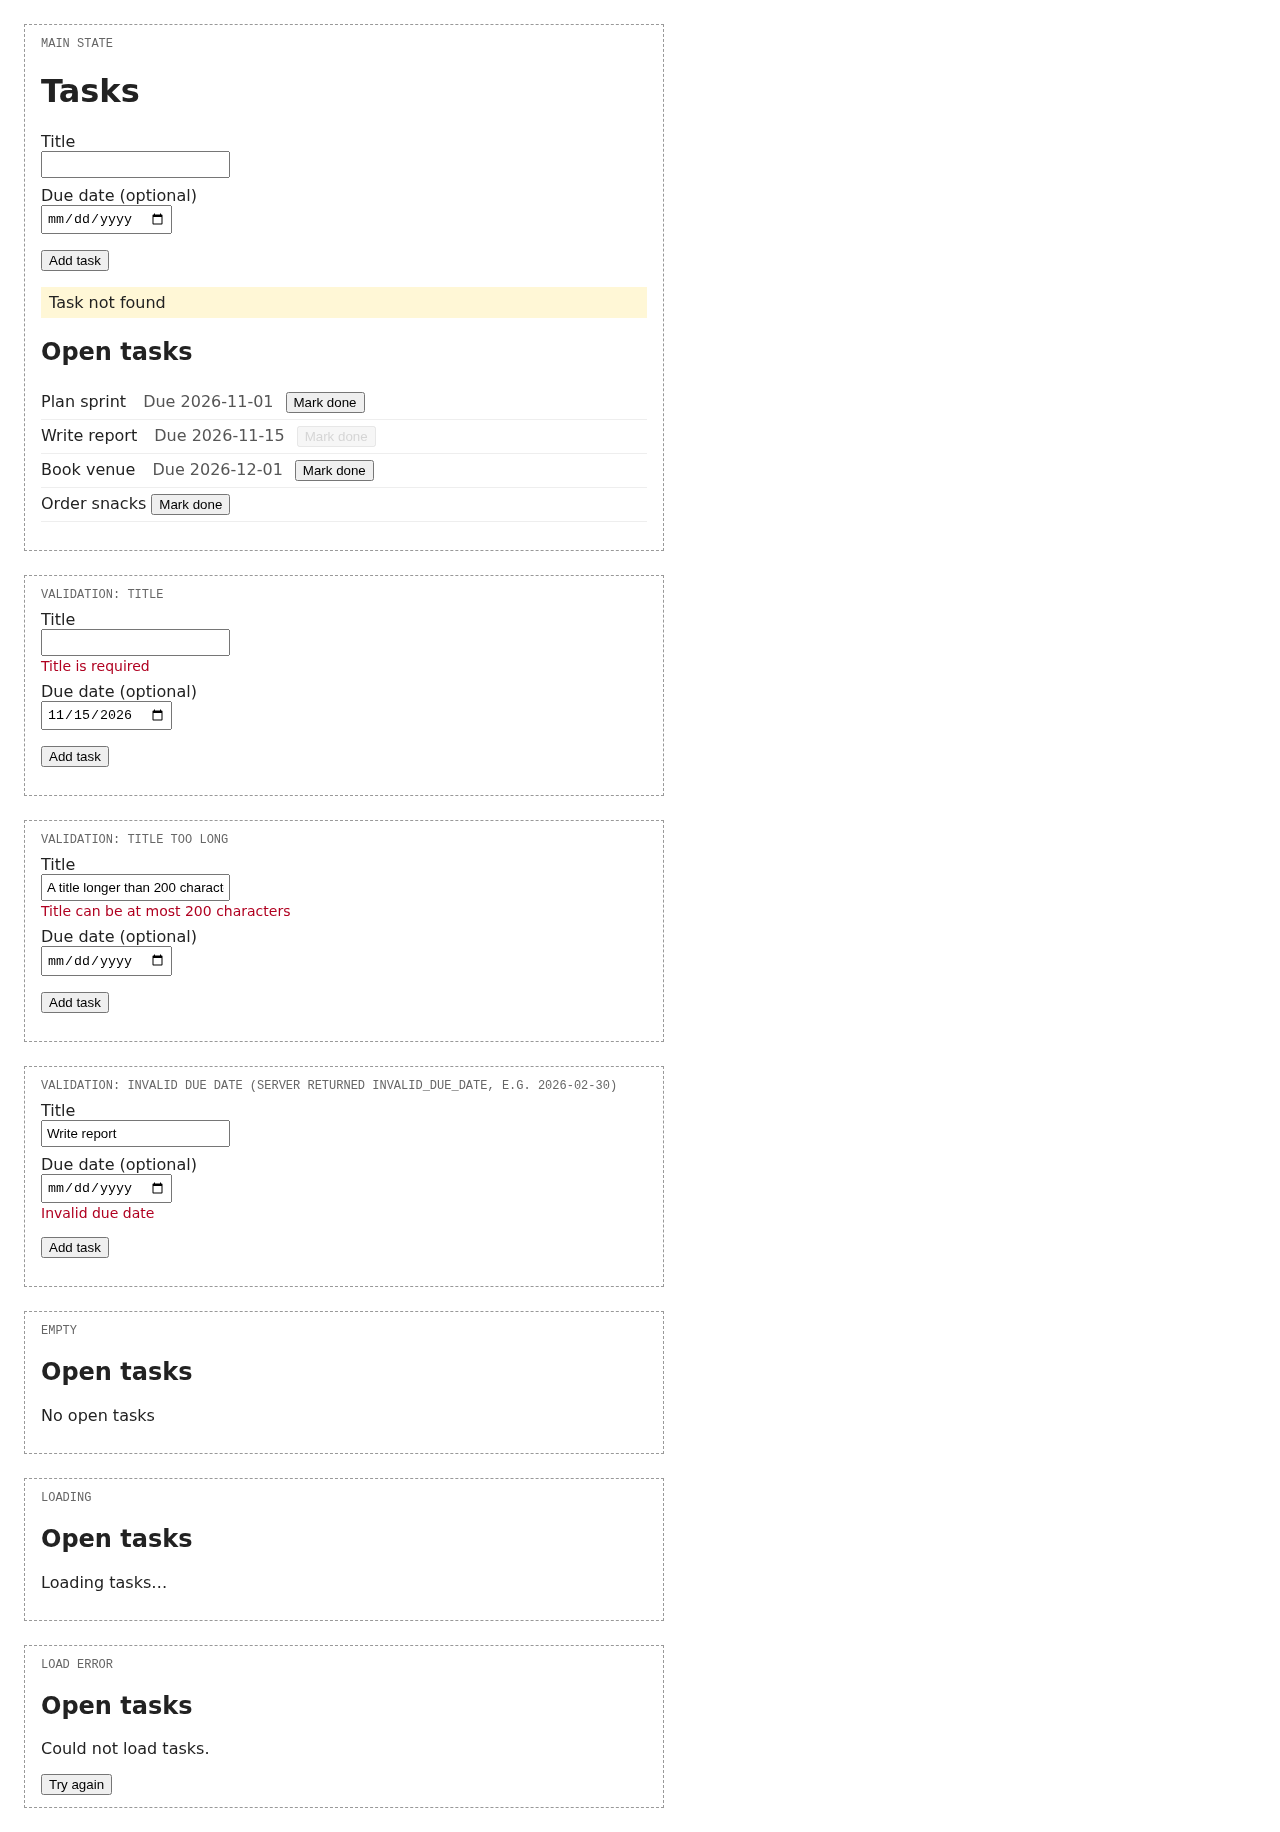
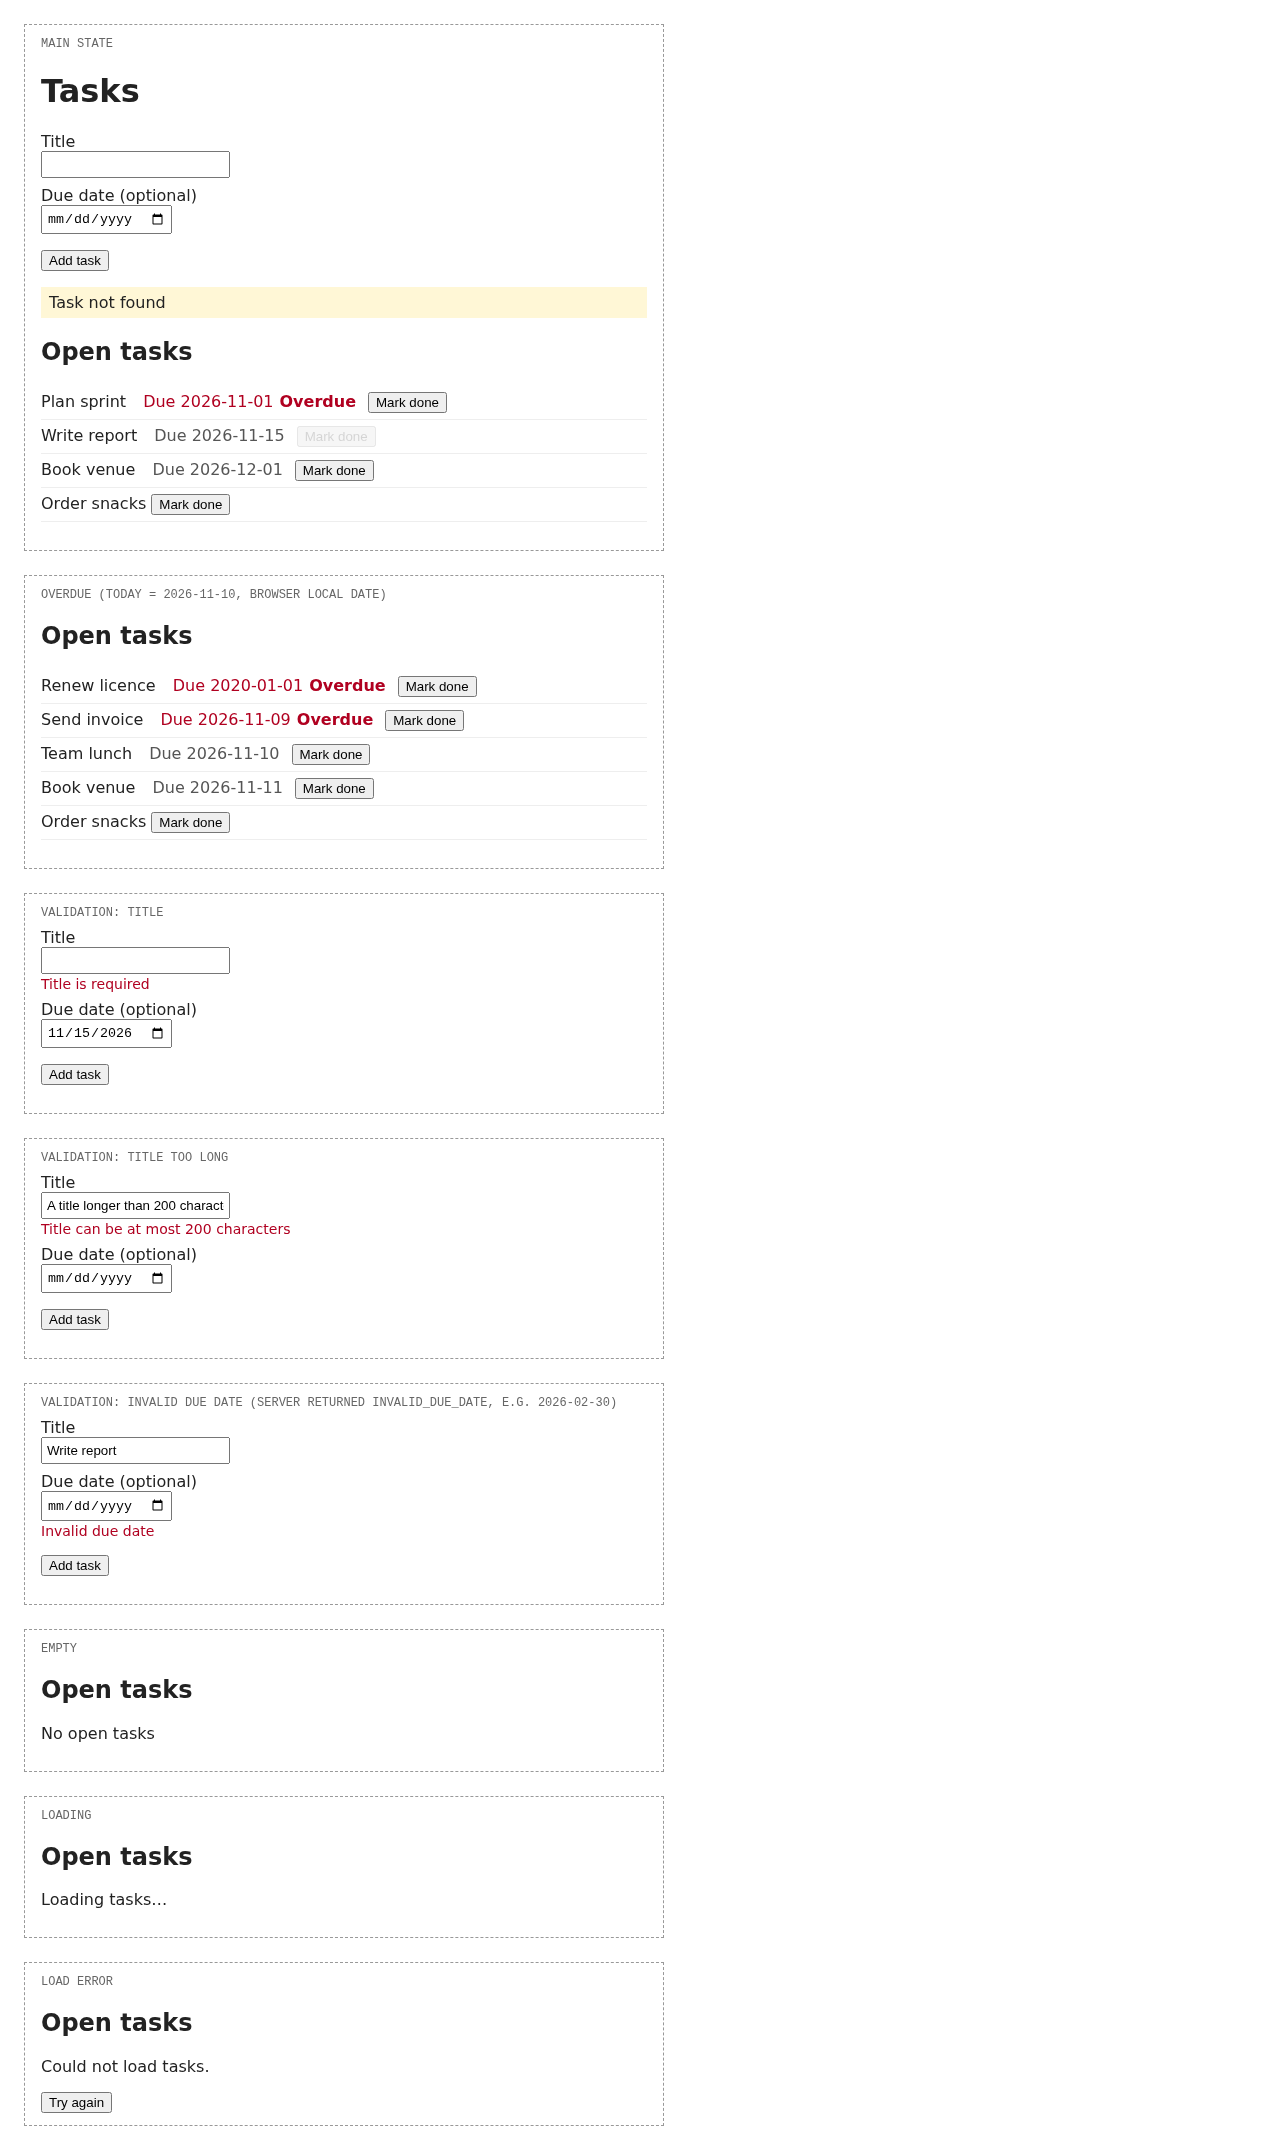
docs: add overdue highlight to Tasks screen design
Autopilot-Task: AWS-23

Changed region(s): [[0.0312, 0.0, 0.5312, 0.9956], [0.25, 0.6223, 0.2812, 0.6534]]

diff --git a/docs/design/tasks-screen/mockup.html b/docs/design/tasks-screen/mockup.html
@@ -7,7 +7,8 @@ section.state{border:1px dashed #999;padding:12px 16px;margin:24px 0}
 label{display:block;margin-top:8px}input{padding:4px}
 .err{color:#b00020;font-size:14px;margin:2px 0}
 ul{padding-left:0;list-style:none}li{padding:6px 0;border-bottom:1px solid #eee}
-li time{color:#555;margin:0 12px}button[disabled]{opacity:.5}
+li time{color:#555;margin:0 12px}li time.overdue{color:#b00020;margin-right:6px}
+.tag{color:#b00020;font-weight:600;margin-right:12px}button[disabled]{opacity:.5}
 .notice{background:#fff7d6;padding:6px 8px}
 </style></head><body>
 <section class="state"><div class="label">Main state</div>
@@ -19,11 +20,20 @@ li time{color:#555;margin:0 12px}button[disabled]{opacity:.5}
 <p class="notice" role="status">Task not found</p>
 <h2>Open tasks</h2>
 <ul aria-label="Open tasks">
-<li>Plan sprint <time datetime="2026-11-01">Due 2026-11-01</time><button aria-label="Mark done: Plan sprint">Mark done</button></li>
+<li>Plan sprint <time class="overdue" datetime="2026-11-01">Due 2026-11-01</time><span class="tag">Overdue</span><button aria-label="Mark done: Plan sprint">Mark done</button></li>
 <li>Write report <time datetime="2026-11-15">Due 2026-11-15</time><button aria-label="Mark done: Write report" disabled>Mark done</button></li>
 <li>Book venue <time datetime="2026-12-01">Due 2026-12-01</time><button aria-label="Mark done: Book venue">Mark done</button></li>
 <li>Order snacks <button aria-label="Mark done: Order snacks">Mark done</button></li>
 </ul></main></section>
+<section class="state"><div class="label">Overdue (today = 2026-11-10, browser local date)</div>
+<h2>Open tasks</h2>
+<ul aria-label="Open tasks">
+<li>Renew licence <time class="overdue" datetime="2020-01-01">Due 2020-01-01</time><span class="tag">Overdue</span><button aria-label="Mark done: Renew licence">Mark done</button></li>
+<li>Send invoice <time class="overdue" datetime="2026-11-09">Due 2026-11-09</time><span class="tag">Overdue</span><button aria-label="Mark done: Send invoice">Mark done</button></li>
+<li>Team lunch <time datetime="2026-11-10">Due 2026-11-10</time><button aria-label="Mark done: Team lunch">Mark done</button></li>
+<li>Book venue <time datetime="2026-11-11">Due 2026-11-11</time><button aria-label="Mark done: Book venue">Mark done</button></li>
+<li>Order snacks <button aria-label="Mark done: Order snacks">Mark done</button></li>
+</ul></section>
 <section class="state"><div class="label">Validation: title</div>
 <form aria-label="Add task">
 <label>Title<br><input type="text" aria-invalid="true" value=""></label>

diff --git a/docs/design/tasks-screen/screen.md b/docs/design/tasks-screen/screen.md
@@ -10,6 +10,12 @@ The single screen where a team member adds a task, sees the open tasks in server
 - Due dates are shown as raw `YYYY-MM-DD` with a "Due" prefix, in `<time dateTime>`; no time-zone shifting.
 - Field error text is `errors[].message` verbatim. The client writes only the generic copy and "Task not found".
 - Known defect (fixed): an earlier mockup wrongly showed 2026-11-15 with "Invalid due date". A valid date is never flagged.
+- Overdue (answers Q-6): only the due-date `<time>` turns red, not the whole row; title and "Mark done" keep their normal colours. Colour is `#b00020` (the field-error red, about 7.4:1 on the `#fff` background, WCAG AA/AAA). Non-colour cue: right after the `<time>` a visible text label `<span class="tag">Overdue</span>` in the same red, font-weight 600, read by screen readers as text.
+- Overdue rule: status open AND dueDate not null AND dueDate < today, compared as `YYYY-MM-DD` strings (calendar dates, not timestamps) (R-15, R-16).
+  - "Today" is the browser's local calendar date, built from getFullYear/getMonth/getDate of `new Date()`; never `toISOString()` (UTC) and never the server's date (AC-23).
+  - It is worked out in the browser each time the list renders. The API returns no overdue flag; no API change.
+  - The server order is unchanged: no re-sorting or grouping (AC-20).
+  - A task due today, due later, or without a due date is never red (AC-21, AC-22).
 - The list is a `<ul>`, not a table. Style stays minimal like the scaffold (single `<main>`).
 
 ## Layout (top to bottom)
@@ -18,20 +24,20 @@ The single screen where a team member adds a task, sees the open tasks in server
 3. Notice area ("Task not found" / form and row failures).
 4. `<h2>Open tasks</h2>` and the state: loading, load error, empty or list.
 
-Mockup sections: Main state (no errors), Validation: title, Validation: title too long, Validation: invalid due date, Empty, Loading, Load error.
+Mockup sections: Main state (no errors), Overdue, Validation: title, Validation: title too long, Validation: invalid due date, Empty, Loading, Load error.
 
 ## Components
 - **TasksScreen**: loads GET /api/tasks, owns list and notice state.
 - **AddTaskForm**: labelled "Title" text input (no maxlength, no client validation), labelled "Due date (optional)" `<input type="date">`, submit "Add task". Each field has its own error element directly below it, linked by `aria-describedby`, input gets `aria-invalid="true"`. Both field errors can show together. Submit is disabled while in flight.
 - **OpenTaskList**: `<ul aria-label="Open tasks">` in exact server order, no client sorting.
-- **Row**: title as a plain text node, then "Due 2026-11-15" or nothing when dueDate is null, then a button with visible text "Mark done" and `aria-label="Mark done: <title>"`. Disabled while its request is in flight.
+- **Row**: title as a plain text node, then "Due 2026-11-15" or nothing when dueDate is null, followed by a red "Overdue" label when the task is overdue (date also red), then a button with visible text "Mark done" and `aria-label="Mark done: <title>"`. Disabled while its request is in flight.
 - **Notice**: `role="status"` for "Task not found"; cleared on the next successful action or on dismiss.
 
 ## States
 - **Loading**: `role="status"` "Loading tasks…", no list. The form stays usable.
 - **Load error**: `role="alert"` "Could not load tasks." plus "Try again" button that re-fetches. The form stays usable.
 - **Empty**: `<p>No open tasks</p>`, no `<ul>`, no table.
-- **Success**: the list.
+- **Success**: the list; overdue rows are highlighted (red due date plus "Overdue").
 - **Validation (400 validation_failed)**: "Title is required" (title_required), "Title can be at most 200 characters" (title_too_long) under Title; "Invalid due date" (invalid_due_date) under the date. Entered values are kept, nothing is added.
   - The client never validates the date. It sends the date input's `value` unchanged (YYYY-MM-DD), or omits dueDate when empty, so a real date such as 2026-11-15 is accepted and listed as "Due 2026-11-15" (AC-2).
   - "Invalid due date" appears only when the 400 response has a FieldError with field `dueDate`. Each error goes under the input matching its `field`, never chosen by guessing from the code.
@@ -49,10 +55,12 @@ See `fields.yaml`.
 3. Invalid: messages appear below the fields, values stay. Valid: inputs clear, list re-fetches and the task is in sorted position.
 4. Member presses "Mark done: <title>"; the button disables while pending.
 5. 200: row disappears. 404: row disappears and "Task not found" shows.
-6. When the last row goes, "No open tasks" shows.
+6. When the list renders, rows due before the local date show the red date plus "Overdue"; adding a past-dated task shows it red right away.
+7. When the last row goes, "No open tasks" shows.
 
 ## Acceptance criteria
 - Form: AC-1, AC-2, AC-3, AC-4, AC-6, AC-9
 - List: AC-1, AC-15, AC-16, AC-17 (order comes from the server)
 - Mark done: AC-12, AC-14
+- Overdue highlight: AC-20, AC-21, AC-22, AC-23
 - Empty state: AC-19
